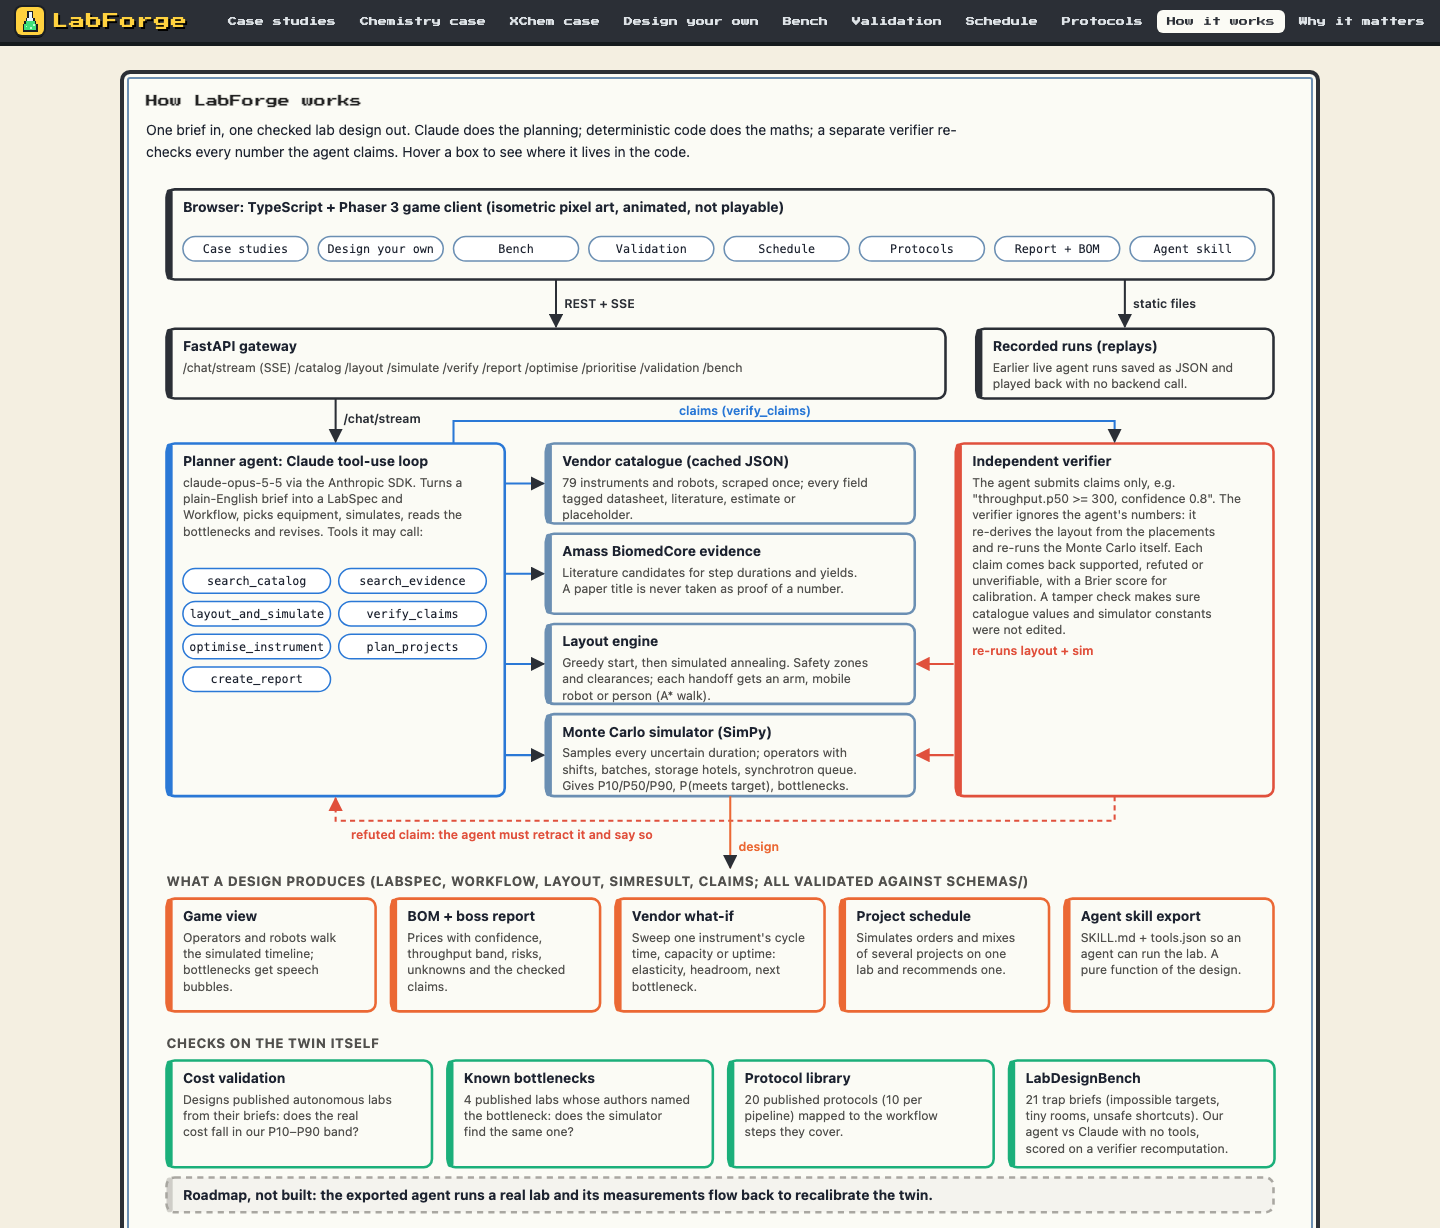
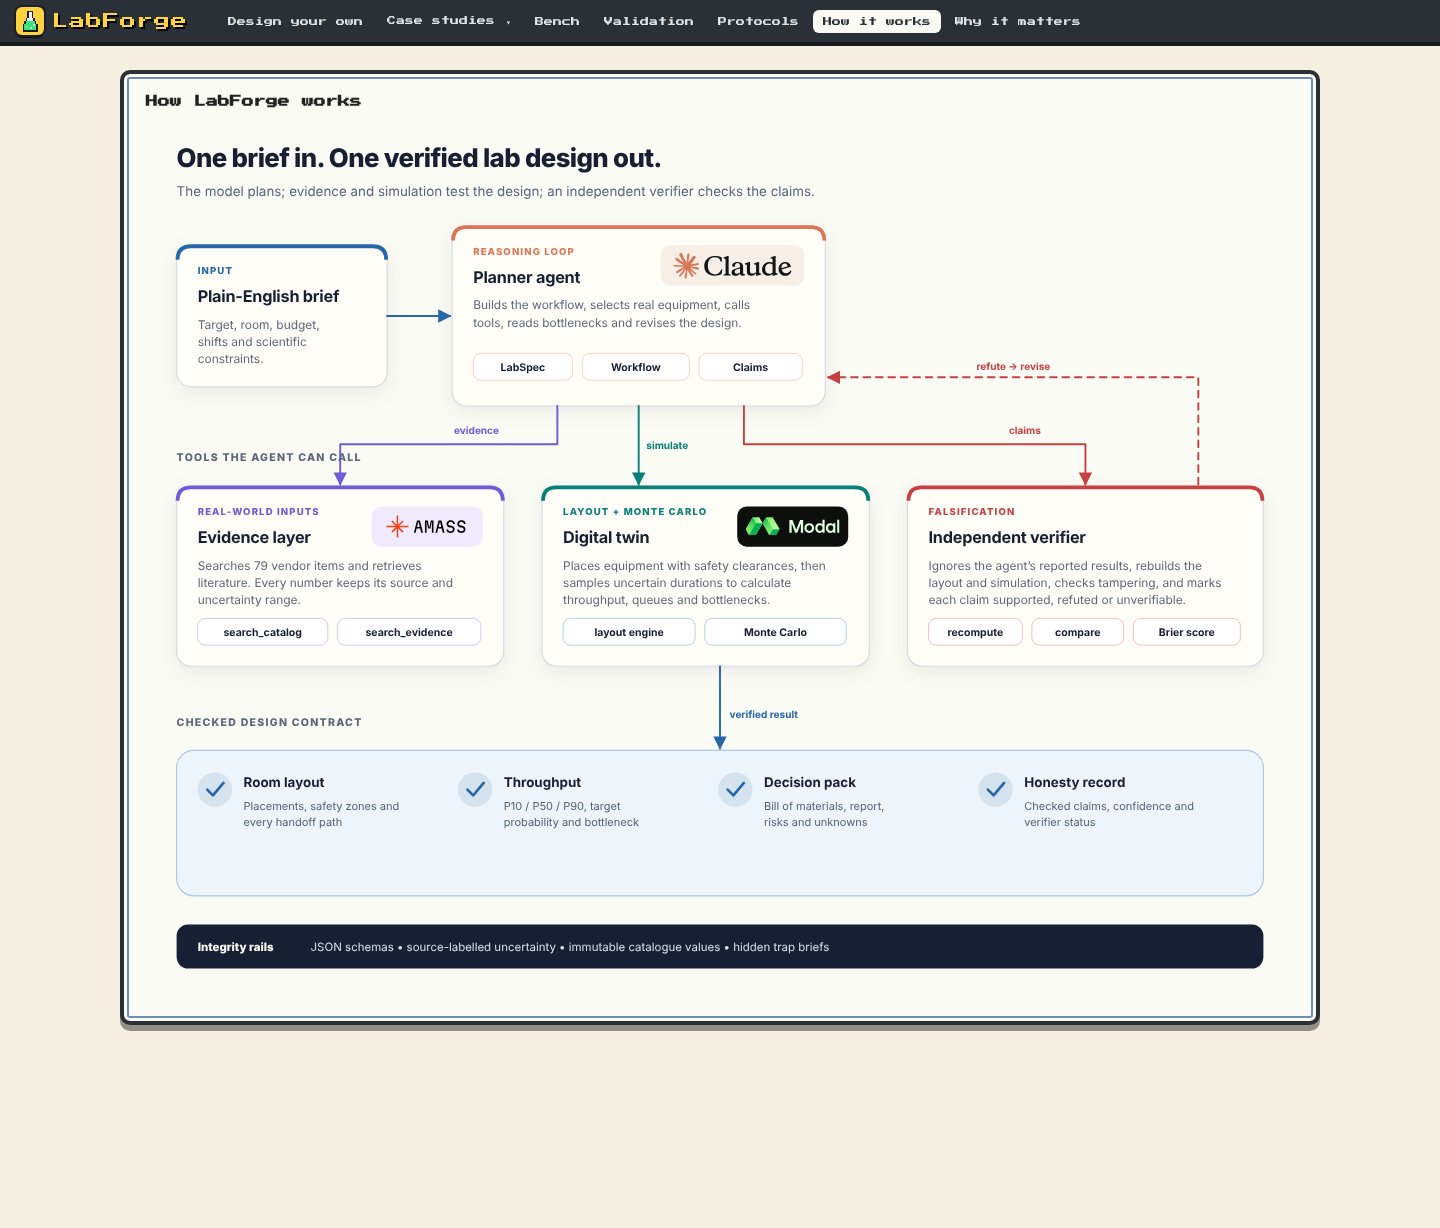
Remove the Hugging Face badge from the How it works diagram
The demo now runs on GitHub Pages, so "Hosted on Hugging Face" is no longer true. Drops the badge from both
the wide and stacked layouts, its CSS and logo, and refreshes the README screenshot.

Claude-Session: https://claude.ai/code/session_01DrSFsgt881ou6du3xk2SAS

Changed region(s): [[0.0625, 0.0619, 0.9375, 1.0], [0.1875, 0.0, 0.9062, 0.0309], [0.875, 0.4023, 0.9062, 0.4332]]

diff --git a/frontend/src/howitworks.ts b/frontend/src/howitworks.ts
@@ -78,15 +78,6 @@ function modalBadge(x: number, y: number): string {
   </g>`;
 }
 
-function huggingFaceBadge(x: number, y: number): string {
-  return `<g class="hw-brand" aria-label="Hosted on Hugging Face Spaces">
-    <rect x="${x}" y="${y}" width="300" height="76" rx="14" fill="#fff6cf" stroke="#efd77a"/>
-    <image href="${BRANDS}huggingface.svg" x="${x + 12}" y="${y + 8}" width="65" height="60" preserveAspectRatio="xMidYMid meet"/>
-    <text x="${x + 90}" y="${y + 31}" class="hw-brand-name hw-brand-hf">Hugging Face</text>
-    <text x="${x + 90}" y="${y + 56}" class="hw-brand-meta hw-brand-host">Hosted on Hugging Face</text>
-  </g>`;
-}
-
 function pill(x: number, y: number, w: number, label: string, color = C.ink): string {
   return `<rect x="${x}" y="${y}" width="${w}" height="28" rx="8" fill="#fff" stroke="${color}" stroke-opacity=".32"/>
     <text x="${x + w / 2}" y="${y + 18}" text-anchor="middle" class="hw-pill">${esc(label)}</text>`;
@@ -110,7 +101,6 @@ function diagram(): string {
     "Builds the workflow, selects real equipment, calls tools, reads bottlenecks and revises the design.", C.agent,
     "backend/labforge/agent/planner.py — the Claude tool-use loop.", "REASONING LOOP"));
   s.push(claudeBadge(538, 132));
-  s.push(huggingFaceBadge(838, 165));
   s.push(pill(342, 245, 104, "LabSpec", C.agent));
   s.push(pill(456, 245, 112, "Workflow", C.agent));
   s.push(pill(578, 245, 108, "Claims", C.agent));
@@ -141,7 +131,7 @@ function diagram(): string {
   s.push(arrow("M430 300V340H203V382", C.evidence, "evidence", 322, 329));
   s.push(arrow("M515 300V382", C.engine, "simulate", 523, 345));
   s.push(arrow("M625 300V340H982V382", C.verify, "claims", 902, 329));
-  // Refuted claims go back to the planner: up from the verifier, under the Hugging Face badge, into the planner.
+  // Refuted claims go back to the planner: up from the verifier, into the planner.
   s.push(arrow("M1100 382V270H713", C.verify, "refute → revise", 868, 262, true));
 
   s.push(`<text x="32" y="635" class="hw-section">CHECKED DESIGN CONTRACT</text>`);
@@ -196,8 +186,6 @@ function diagramTall(): string {
   const sub = "The model plans; evidence and simulation test the design; an independent verifier checks the claims.";
   s.push(multiline(16, y, sub, 300, "hw-subtitle", 20));
   y += lines(sub, 300) * 20 + 10;
-  s.push(huggingFaceBadge((W - 300) / 2, y));
-  y += 100;
 
   const brief = "Target, room, budget, shifts and scientific constraints.";
   const hBrief = panelH(brief, false);

diff --git a/frontend/src/style.css b/frontend/src/style.css
@@ -498,9 +498,7 @@ body.page-view #alerts-btn, body.on-landing #alerts-btn { display: none !importa
 #modal .hw-svg .hw-title { font-size: 17px; font-weight: 740; letter-spacing: -0.015em; }
 #modal .hw-svg .hw-body { font-size: 12.5px; fill: #5d6677; }
 #modal .hw-svg .hw-brand-name { font-size: 15px; font-weight: 760; }
-#modal .hw-svg .hw-brand-hf { font-size: 18px; }
 #modal .hw-svg .hw-brand-meta { font-size: 7px; font-weight: 720; fill: #8a5a48; letter-spacing: 0.12em; }
-#modal .hw-svg .hw-brand-host { font-size: 13px; font-weight: 700; fill: #79631a; letter-spacing: 0.01em; }
 #modal .hw-svg .hw-pill { font-size: 11px; font-weight: 650; }
 #modal .hw-svg .hw-arrow { fill: none; stroke-width: 2; stroke-linecap: round; stroke-linejoin: round; }
 #modal .hw-svg .hw-flow-label { font-size: 10.5px; font-weight: 680; paint-order: stroke; stroke: #fbfbf5; stroke-width: 5px; stroke-linejoin: round; }
